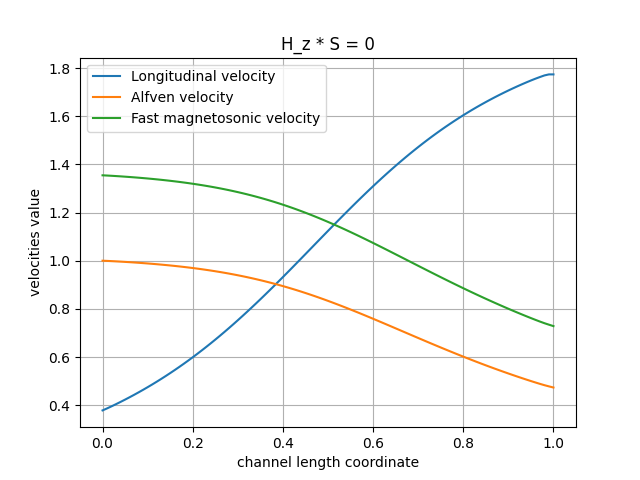
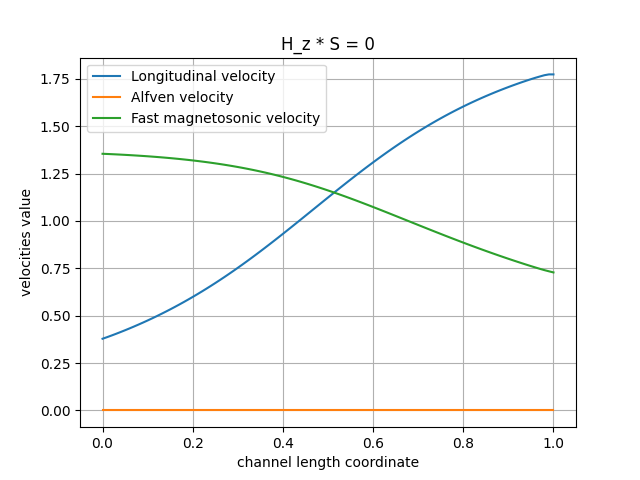
update velocities graphics and calculate smooth step in velocities

diff --git a/10-MGD_analysis/main.py b/10-MGD_analysis/main.py
@@ -286,7 +286,7 @@ def algorithm(i_max, n_max, k, gamma, beta, mu_0, rho_0, v_z_0, v_phi_0, h_z_s, 
 # mesh options
 
 I_max_main = 100
-N_max_main = 2500
+N_max_main = 1000
 k_main = 0.5
 gamma_main = 1.67
 beta_main = 1
@@ -371,6 +371,7 @@ N = N_max_main
 
 # check intersection of velocities
 
+'''
 plt.title('H_z * S = 0')
 plt.xlabel('channel length coordinate')
 plt.ylabel('velocities value')
@@ -381,10 +382,11 @@ for i_m in range(I_max_main + 1):
     y_lst[i_m] = u_cor_2[N, i_m] / u_cor_1[N, i_m]
 plt.plot(x_lst, y_lst, label='Longitudinal velocity')
 for i_m in range(I_max_main + 1):
-    y_lst[i_m] = H_phi_mesh[i_m] / np.sqrt(rho_mesh[i_m])
+    y_lst[i_m] = H_z_mesh[i_m] / np.sqrt(rho_mesh[i_m])
 plt.plot(x_lst, y_lst, label='Alfven velocity')
 for i_m in range(I_max_main + 1):
-    y_lst[i_m] = np.sqrt(H_phi_mesh[i_m] ** 2 / rho_mesh[i_m] + gamma_main * p_mesh[i_m] / rho_mesh[i_m])
+    y_lst[i_m] = np.sqrt(H_phi_mesh[i_m] ** 2 / rho_mesh[i_m] +
+                         H_z_mesh[i_m] ** 2 / rho_mesh[i_m] + gamma_main * p_mesh[i_m] / rho_mesh[i_m])
 plt.plot(x_lst, y_lst, label='Fast magnetosonic velocity')
 plt.legend()
 plt.show()
@@ -399,13 +401,15 @@ for i_m in range(I_max_main + 1):
     y_lst[i_m] = u_cor_2[N, i_m] / u_cor_1[N, i_m]
 plt.plot(x_lst, y_lst, label='Longitudinal velocity')
 for i_m in range(I_max_main + 1):
-    y_lst[i_m] = H_phi_mesh[i_m] / np.sqrt(rho_mesh[i_m])
+    y_lst[i_m] = H_z_mesh[i_m] / np.sqrt(rho_mesh[i_m])
 plt.plot(x_lst, y_lst, label='Alfven velocity')
 for i_m in range(I_max_main + 1):
-    y_lst[i_m] = np.sqrt(H_phi_mesh[i_m] ** 2 / rho_mesh[i_m] + gamma_main * p_mesh[i_m] / rho_mesh[i_m])
+    y_lst[i_m] = np.sqrt(H_phi_mesh[i_m] ** 2 / rho_mesh[i_m] +
+                         H_z_mesh[i_m] ** 2 / rho_mesh[i_m] + gamma_main * p_mesh[i_m] / rho_mesh[i_m])
 plt.plot(x_lst, y_lst, label='Fast magnetosonic velocity')
 plt.legend()
 plt.show()
+'''
 
 plt.title('H_z * S = 0.5')
 plt.xlabel('channel length coordinate')
@@ -417,13 +421,15 @@ for i_m in range(I_max_main + 1):
     y_lst[i_m] = u_cor_2[N, i_m] / u_cor_1[N, i_m]
 plt.plot(x_lst, y_lst, label='Longitudinal velocity')
 for i_m in range(I_max_main + 1):
-    y_lst[i_m] = H_phi_mesh[i_m] / np.sqrt(rho_mesh[i_m])
+    y_lst[i_m] = H_z_mesh[i_m] / np.sqrt(rho_mesh[i_m])
 plt.plot(x_lst, y_lst, label='Alfven velocity')
 for i_m in range(I_max_main + 1):
-    y_lst[i_m] = np.sqrt(H_phi_mesh[i_m] ** 2 / rho_mesh[i_m] + gamma_main * p_mesh[i_m] / rho_mesh[i_m])
+    y_lst[i_m] = np.sqrt(H_phi_mesh[i_m] ** 2 / rho_mesh[i_m] +
+                         H_z_mesh[i_m] ** 2 / rho_mesh[i_m] + gamma_main * p_mesh[i_m] / rho_mesh[i_m])
 plt.plot(x_lst, y_lst, label='Fast magnetosonic velocity')
 plt.legend()
 plt.show()
+
 '''
 # animation of the establishment of a stationary regime of plasma flow in the channel
 
